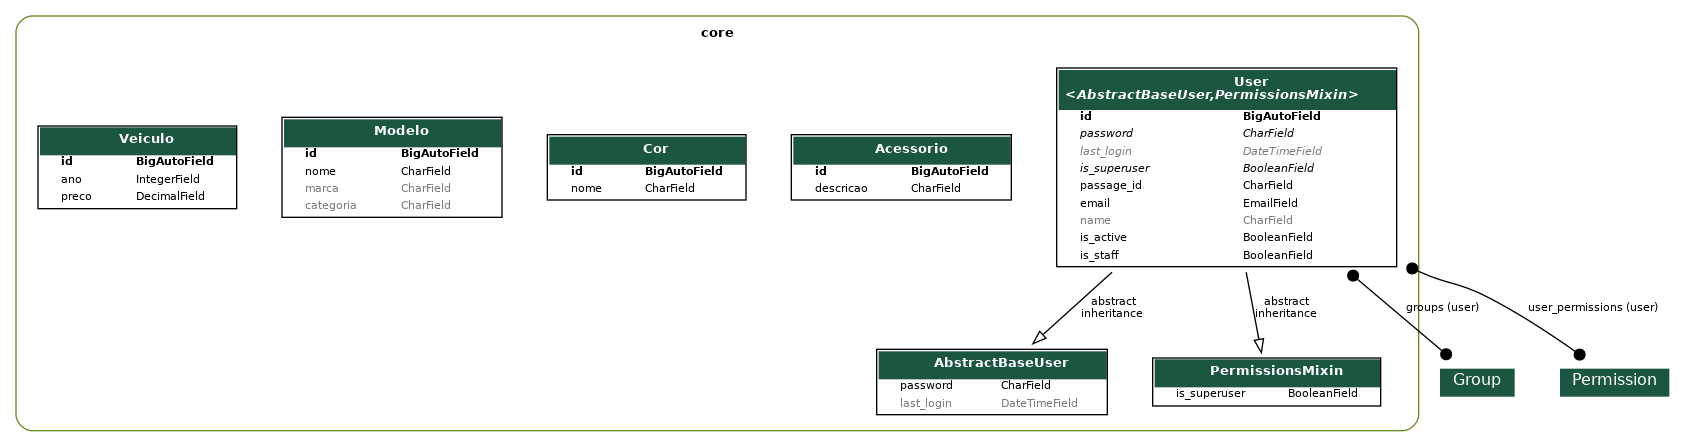
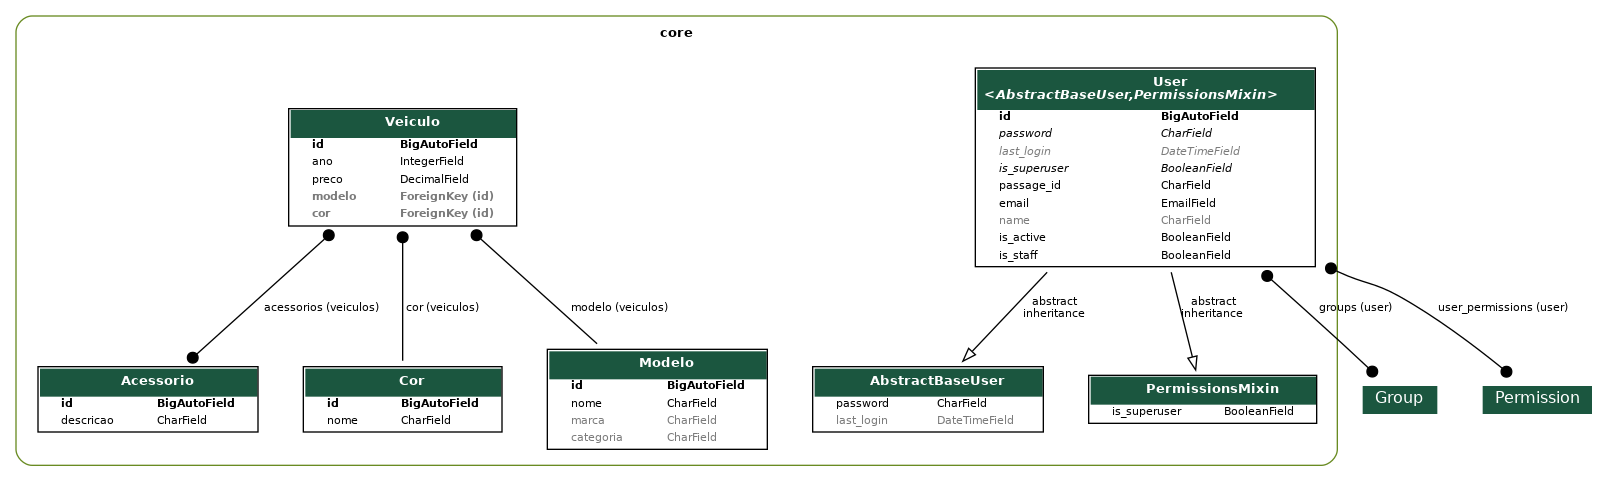
fix: migração de Veiculo pelo relacionamento n para n

diff --git a/core/migrations/0009_veiculo_acessorios_veiculo_cor_veiculo_modelo.py b/core/migrations/0009_veiculo_acessorios_veiculo_cor_veiculo_modelo.py
@@ -1,0 +1,29 @@
+# Generated by Django 5.1.7 on 2025-04-22 19:28
+
+import django.db.models.deletion
+from django.db import migrations, models
+
+
+class Migration(migrations.Migration):
+
+    dependencies = [
+        ('core', '0008_veiculo'),
+    ]
+
+    operations = [
+        migrations.AddField(
+            model_name='veiculo',
+            name='acessorios',
+            field=models.ManyToManyField(blank=True, related_name='veiculos', to='core.acessorio'),
+        ),
+        migrations.AddField(
+            model_name='veiculo',
+            name='cor',
+            field=models.ForeignKey(blank=True, null=True, on_delete=django.db.models.deletion.PROTECT, related_name='veiculos', to='core.cor'),
+        ),
+        migrations.AddField(
+            model_name='veiculo',
+            name='modelo',
+            field=models.ForeignKey(blank=True, null=True, on_delete=django.db.models.deletion.PROTECT, related_name='veiculos', to='core.modelo'),
+        ),
+    ]

diff --git a/core/models/veiculo.py b/core/models/veiculo.py
@@ -1,15 +1,16 @@
 from django.db import models
 
-# from .modelo import Modelo
-# from .cor import Cor
-# from .acessorio import Acessorio
+from .acessorio import Acessorio
+from .cor import Cor
+from .modelo import Modelo
 
 
 class Veiculo(models.Model):
     ano = models.IntegerField(default=0, null=True)
     preco = models.DecimalField(max_digits=10, decimal_places=2, default=0, null=True)
-    # modelo = models.ForeignKey(Modelo, on_delete=models.PROTECT, related_name="veiculos", null=True, blank=True)
-    # cor = models.ForeignKey(Cor, on_delete=models.PROTECT, related_name="veiculos", null=True, blank=True)
+    modelo = models.ForeignKey(Modelo, on_delete=models.PROTECT, related_name="veiculos", null=True, blank=True)
+    cor = models.ForeignKey(Cor, on_delete=models.PROTECT, related_name="veiculos", null=True, blank=True)
+    acessorios = models.ManyToManyField(Acessorio, related_name="veiculos", blank=True)
 
     def __str__(self):
         return f"{self.id}"
